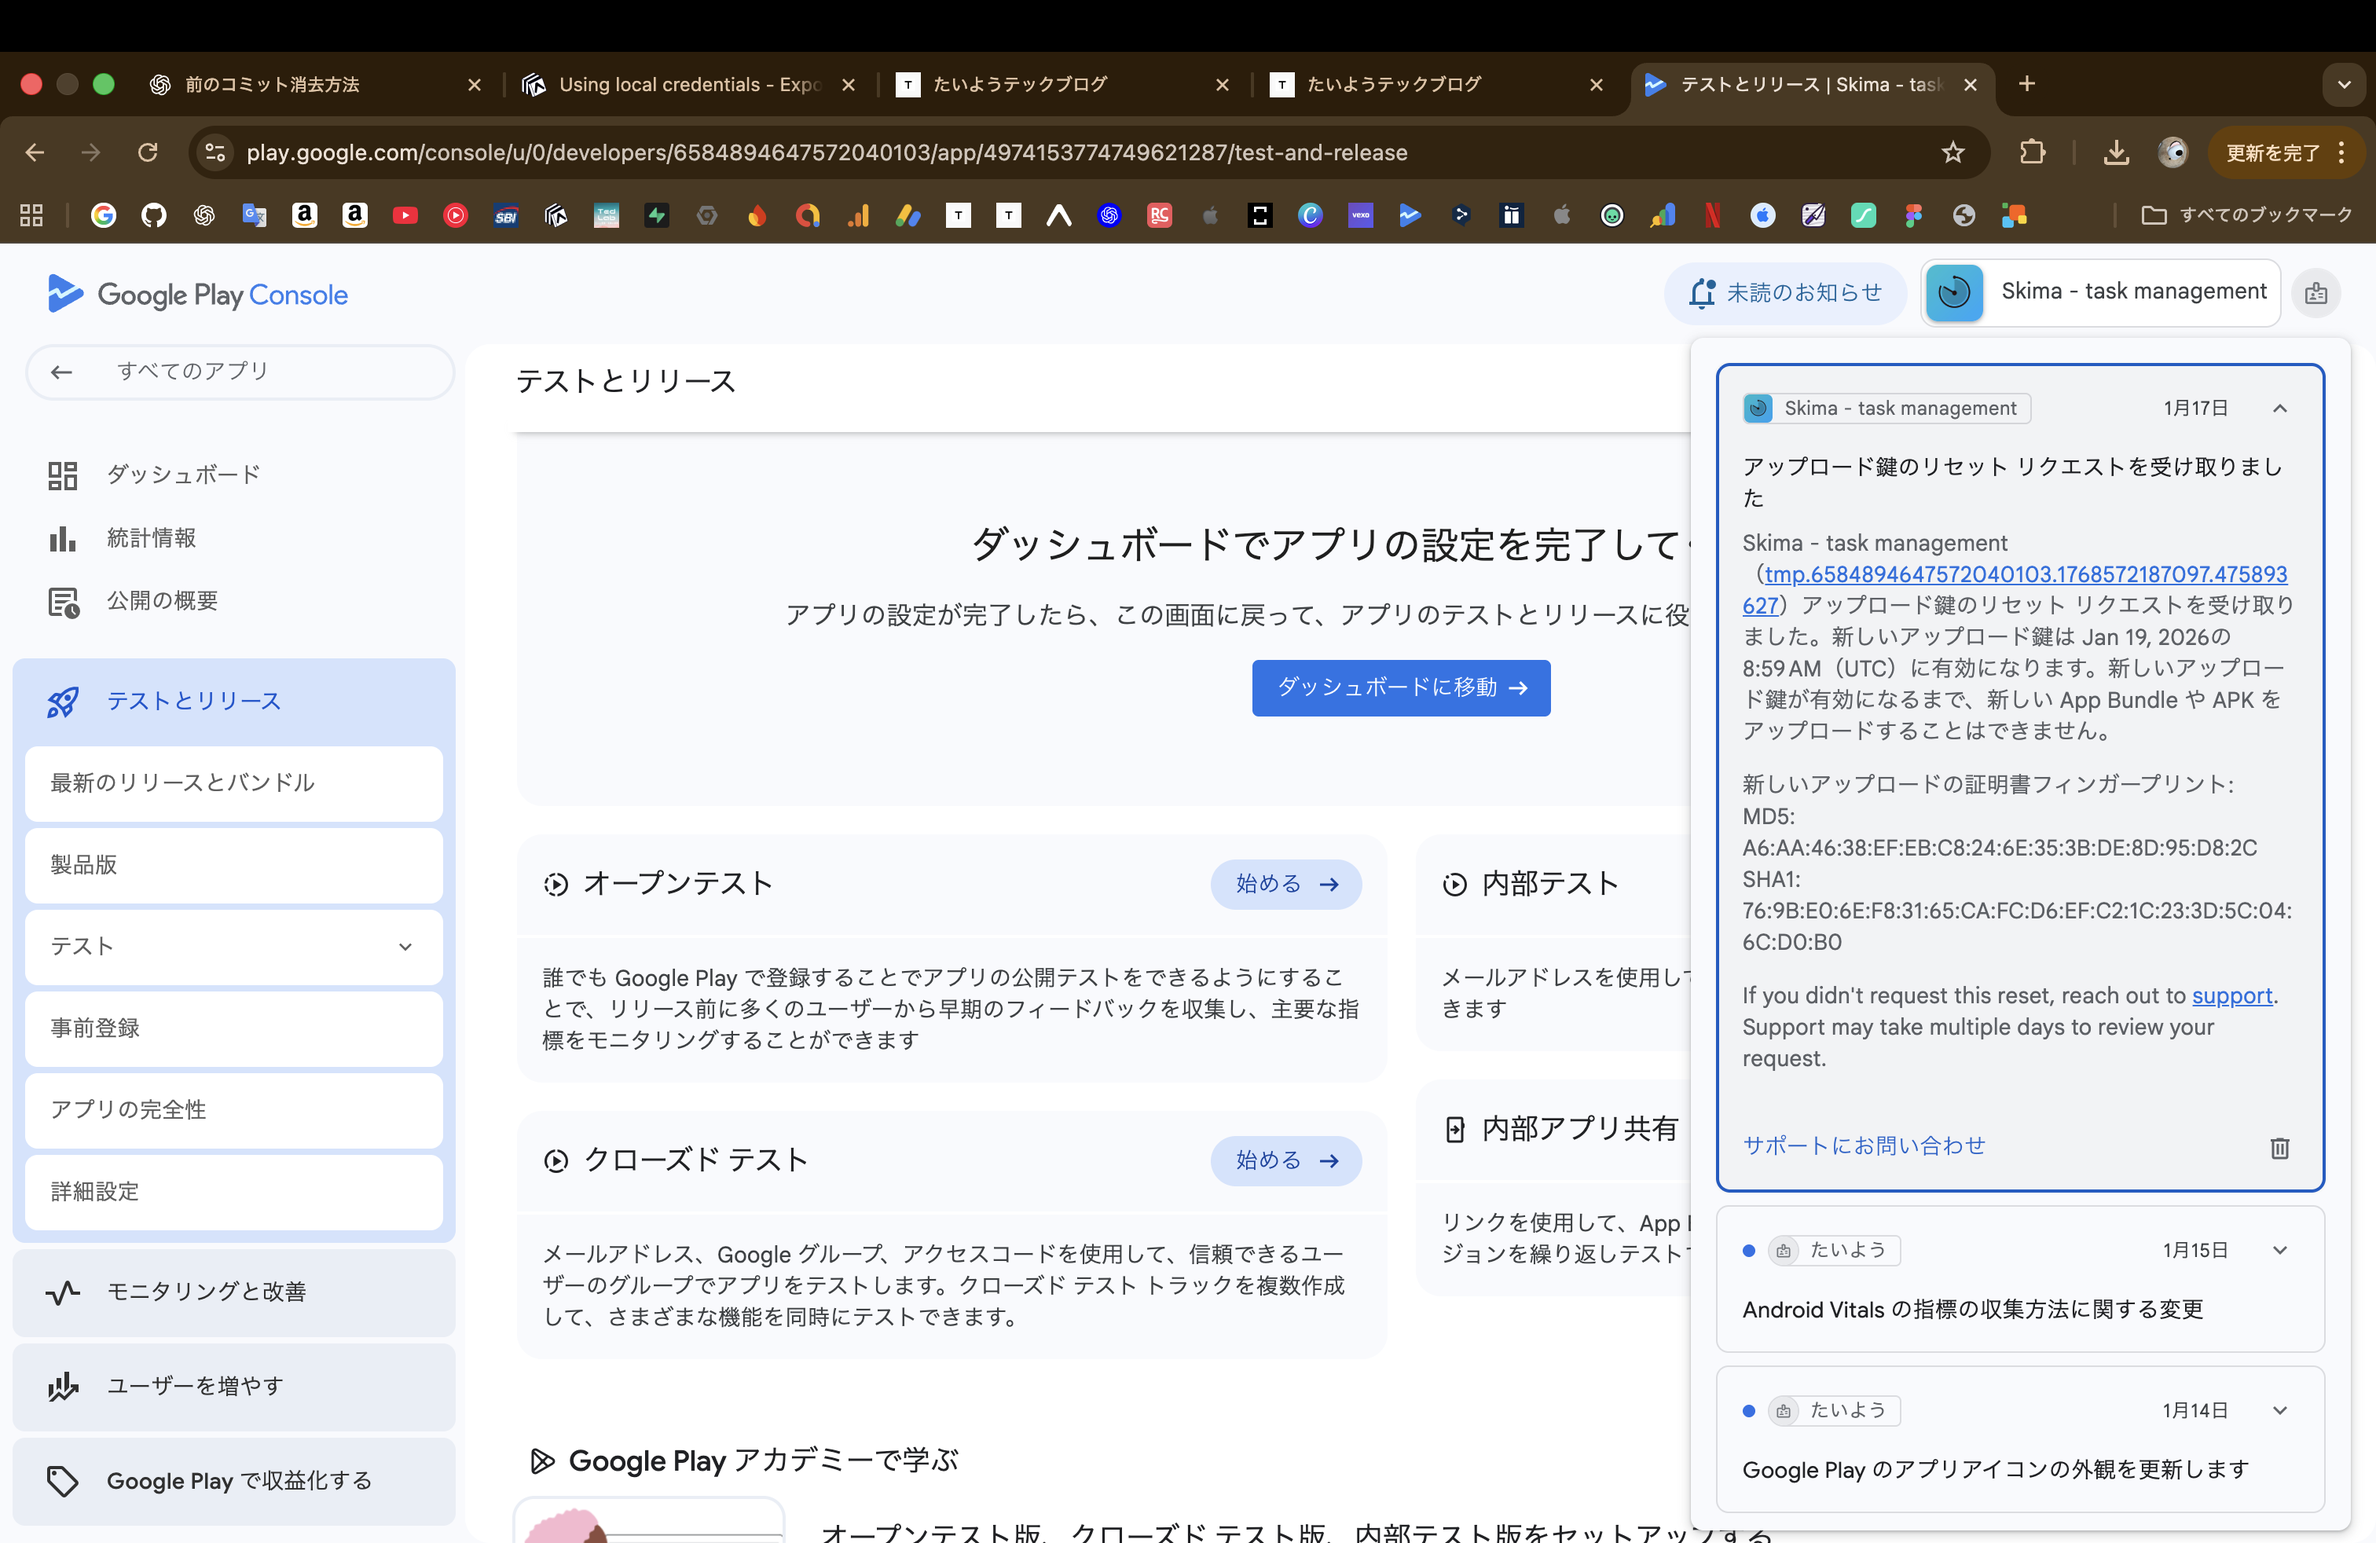
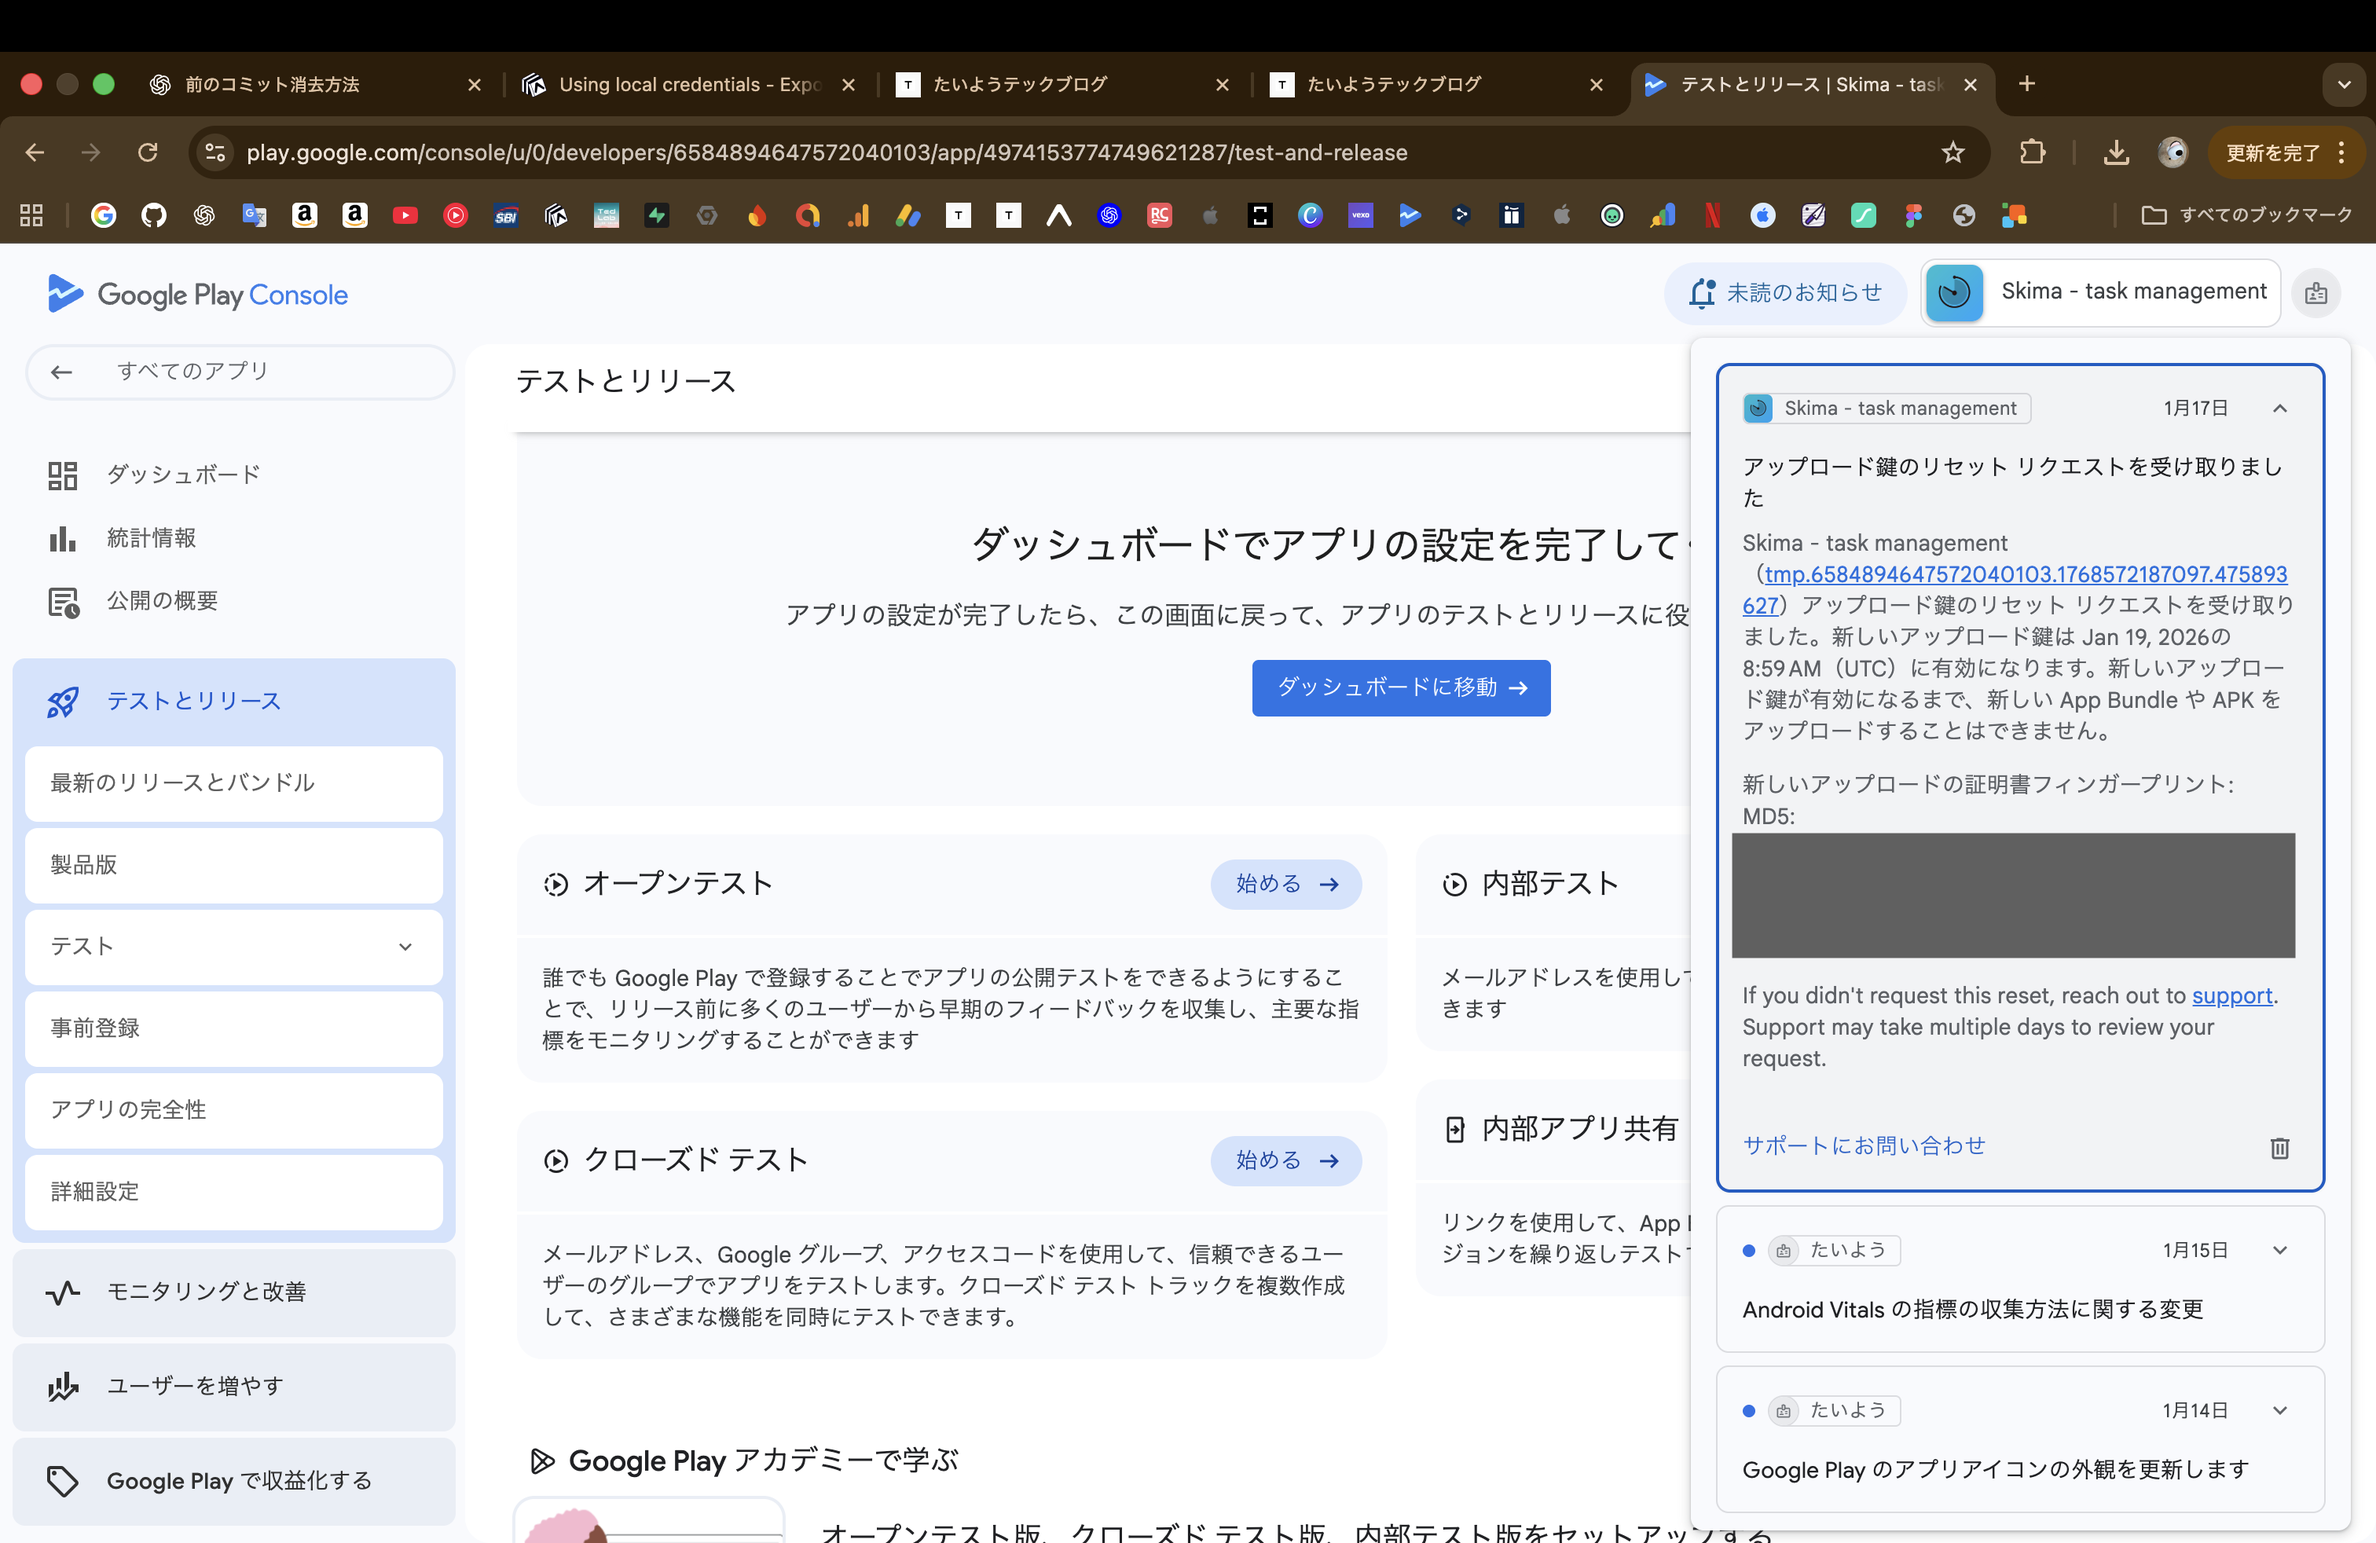
Android App Bundle が誤った鍵で署名されています。のエラーに対処

Changed region(s): [[0.7149, 0.528, 0.9636, 0.6212]]

diff --git a/_posts/2026-01-20-google-play-uploadl-err.md b/_posts/2026-01-20-google-play-uploadl-err.md
@@ -1,0 +1,151 @@
+---
+layout: post
+title: "Android App Bundle が誤った鍵で署名されています。のエラーに対処"
+subtitle: "Expoを使っている場合の対応策です"
+description: "Expo で誤って新しいアップロードキーを作ってしまい、Play Console で AAB を受け付けられなくなった時の復旧手順。"
+cover-img: /assets/img/header.png
+thumbnail-img: /assets/img/2026-01-20/samune.png
+share-img: /assets/img/2026-01-20/samune.png
+tags: [Expo, react-native, エラー解決]
+category: errlog
+---
+
+{% capture bubble_dev_taiyou_intro %}
+考え中
+{% endcapture %}
+{% include speech-bubble.html side="right" name="たいよう" avatar="/assets/img/hiromasa.png" message=bubble_dev_taiyou_intro %}
+
+## はじめに
+
+`eas build` の途中で `generate new fingerprint` にうっかり `yes` を選んでしまい、  
+新しい署名キー（アップロードキー）を作成してしまいました。  
+その結果、Google Play Console で AAB が受け付けられなくなりました。  
+原因は「Expo 側で持っているアップロードキー」と「Play Console が登録しているアップロードキー」が
+一致していないことです。  
+この場合は、**ローカルで新しいアップロードキーを作り直し、Expo と Play Console の両方に適用**すれば復旧できます。
+以下、実際にやった手順をまとめます。
+
+<img src="/assets/img/2026-01-20/1.png" alt="sdk" style=" height: auto; max-height: 600px" />
+
+## 解決策
+
+少し工程が多いですが、順を追って解説します。  
+私は、以下の作業をプロジェクトのルートで行いました。
+
+### 1. 新規に JKS を作成する
+
+ローカルでアップロードキー用の JKS を作ります。
+
+```bash
+keytool -genkeypair -v \
+  -storetype JKS \
+  -keystore upload-key.jks \
+  -keyalg RSA -keysize 2048 -validity 10000 \
+  -alias upload
+```
+
+作成時に聞かれるパスワードは後で使うので控えておきます。
+
+### 2. PEM を作成する
+
+Play Console の「アップロードキーのリセット申請」に必要なので、証明書（PEM）を出力します。
+
+```bash
+keytool -export -rfc \
+  -keystore upload-key.jks \
+  -alias upload \
+  -file upload_certificate.pem
+```
+
+### 3. credentials.json を作成する
+
+EAS にアップロードキーを認識させるため、`credentials.json` を用意します。
+
+credentials.json
+
+```json
+{
+  "android": {
+    "keystore": {
+      "keystorePath": "upload-key.jks",
+      "keystorePassword": "JKSのパスワード",
+      "keyAlias": "upload",
+      "keyPassword": "キーのパスワード(JKSのパスワードと同じものでOK)"
+    }
+  }
+}
+```
+
+<br>
+eas.jsonにはbuild時のcredentialsSourceにlocalを参照するように記述します。
+
+```json
+{
+  "cli": {
+    "version": ">= 16.13.3",
+    "appVersionSource": "remote"
+  },
+  "build": {
+    "development": {
+      "developmentClient": true,
+      "distribution": "internal"
+    },
+    "preview": {
+      "distribution": "internal"
+    },
+    "production": {
+      "autoIncrement": true,
+      "android": {
+        "credentialsSource": "local" // <-ここ
+      }
+    }
+  },
+  "submit": {
+    "production": {}
+  }
+}
+```
+
+<br>
+このようなディレクトリ構造になりました。  
+囲んであるのが、今回作成か変更を加えたファイルになります。
+
+<img src="/assets/img/2026-01-20/4.png" alt="sdk" style=" height: auto; max-height: 600px" />
+
+### 4. EAS に新しいキーを登録する
+
+```bash
+eas build -p android --profile=production
+```
+
+<br>
+新規ビルドすることで、ローカルのキー情報がExpo側に反映されます。  
+localのcredentialsSourceを参照しているというような文言がコマンド入力後に表示されると思います(具体的な文言はスクショ撮り忘れました🙏)。
+
+### 5. Play Console でアップロードキーのリセットを申請
+
+Play Console の  
+**「アプリの完全性 > Play アプリ署名の設定 > アップロード鍵の証明書 > アップロード鍵のリセットのリクエスト** から  
+さきほど生成した`upload_certificate.pem` を使って申請します。
+
+<img src="/assets/img/2026-01-20/2.png" alt="sdk" style=" height: auto; max-height: 600px" />
+
+## 待つ
+
+申請が完了したら、もう少しだけ待ってねという通知が来ると思うので、新しいキーが有効になるまで待ちます。
+有効になったら、新規AABを再提出しましょう！
+
+<img src="/assets/img/2026-01-20/3.png" alt="sdk" style=" height: auto; max-height: 600px" />
+
+## おわりに
+
+「誤った鍵で署名されています」系のエラーは、**アップロードキーの不一致**が原因で起きることが多いです。  
+新しいキーを作成して、Expo と Play Console の両方を同じ鍵に揃えれば解決できます。
+
+ご質問や追加のエラーがあればコメントやメールで教えていただけるとうれしいです。  
+お時間があるときに他の記事やプロジェクトも覗いていただけるとうれしいです ☺
+
+## 関連記事
+
+{% assign related_posts = site.posts | where_exp: "post", "post.url == '/2025-10-15-16KB-search-for-expo/'" %}
+{% include related-posts.html posts=related_posts %}
